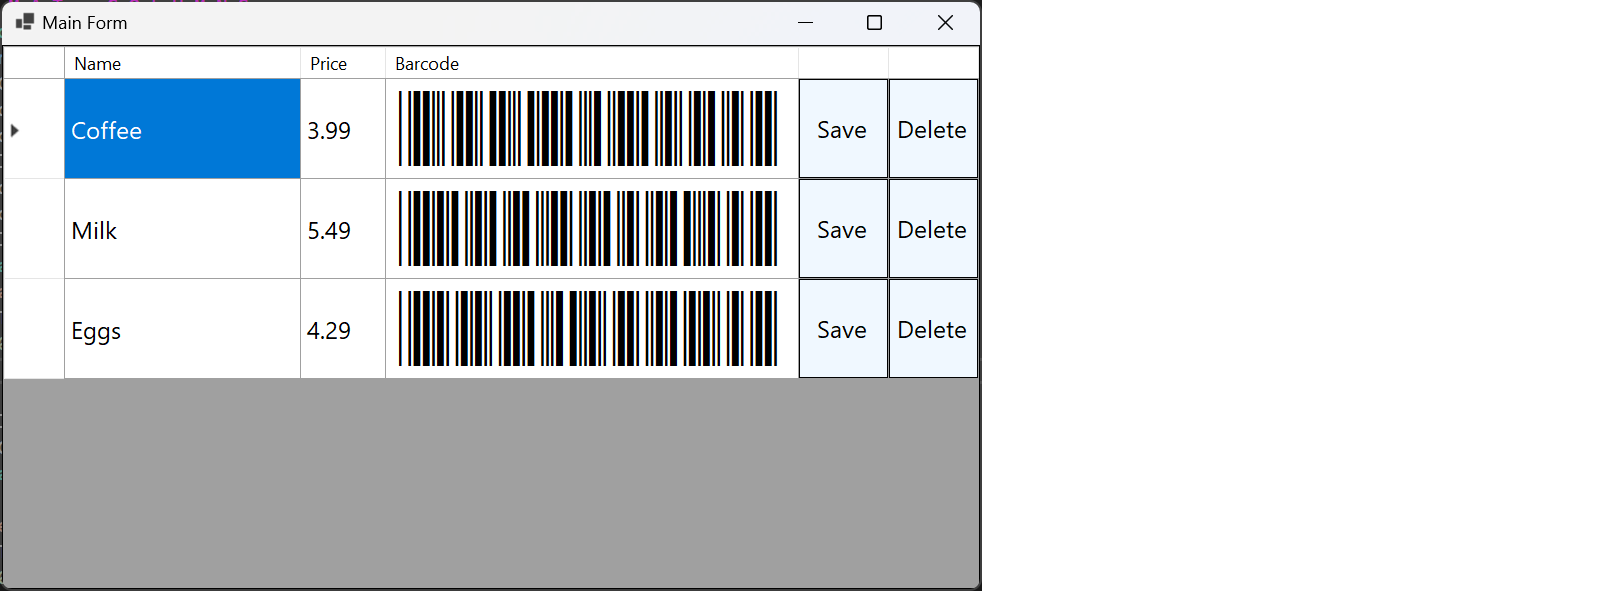
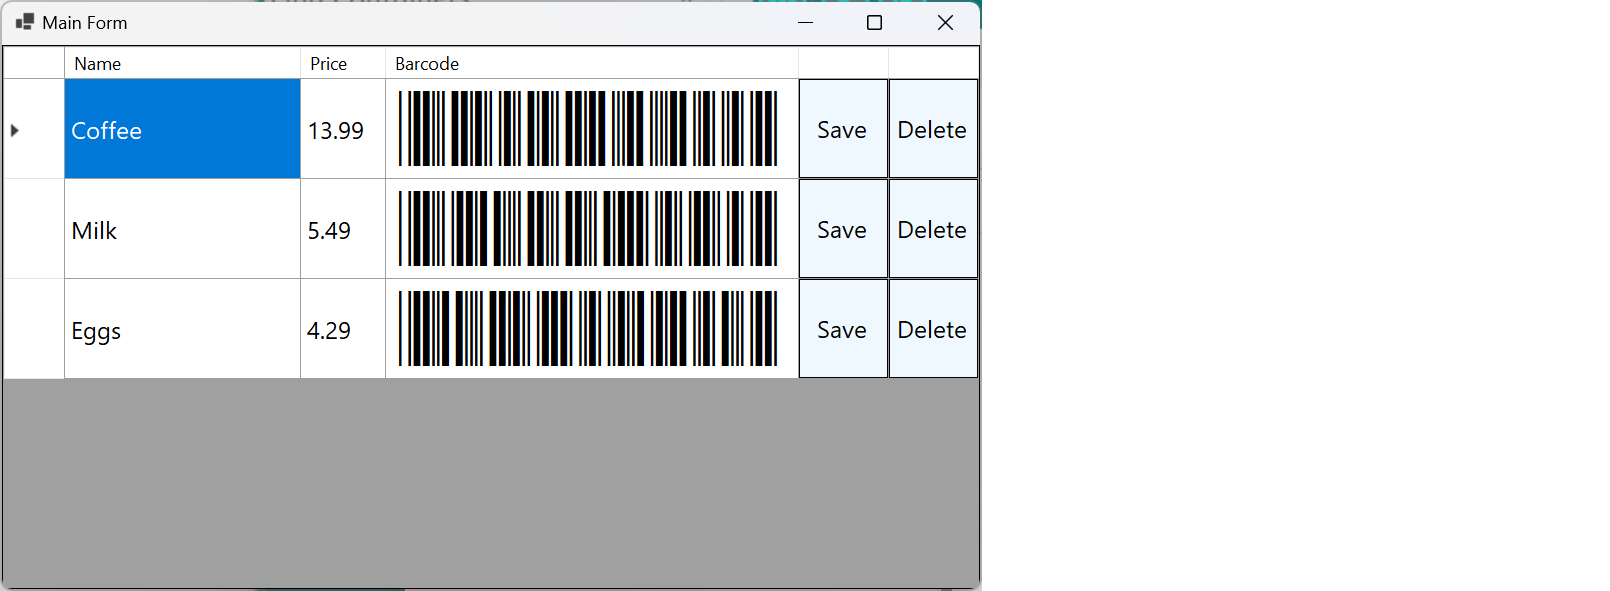
set a more contextually reasonable price for coffee

diff --git a/product-list-00/MainForm.cs b/product-list-00/MainForm.cs
@@ -54,7 +54,7 @@ namespace product_list_00
             #endregion F O R M A T    C O L U M N S
 
             // Add a few products
-            Products.Add(new Product { Name = "Coffee", Price = 3.99 });
+            Products.Add(new Product { Name = "Coffee", Price = 13.99 });
             Products.Add(new Product { Name = "Milk", Price = 5.49 });
             Products.Add(new Product { Name = "Eggs", Price = 4.29 });
         }

diff --git a/README.md b/README.md
@@ -3,12 +3,12 @@ Your [question](https://stackoverflow.com/q/74962863/5438626) is about **setting
 [![minimal sample][1]][1]
 
 ***
-The `BindingList<Product>` contains objects of a class you define to represent a row:
+The data source is a `BindingList<Product>` containing objects of a class you have defined to represent a row:
 
     // Minimal product class for example
     class Product
     {
-        // Read-only fields for this example.
+        // Read-only cells for this example.
         public string Name { get; internal set; }
         public double Price { get; internal set; }
         public string Barcode { get; internal set; } =
@@ -67,7 +67,7 @@ Then in the main form, the `Load` event can be used to set up the columns and fo
         #endregion F O R M A T    C O L U M N S
 
         // Add a few products
-        Products.Add(new Product { Name = "Coffee", Price = 3.99 });
+        Products.Add(new Product { Name = "Coffee", Price = 13.99 });
         Products.Add(new Product { Name = "Milk", Price = 5.49 });
         Products.Add(new Product { Name = "Eggs", Price = 4.29 });
     }
@@ -75,4 +75,4 @@ Then in the main form, the `Load` event can be used to set up the columns and fo
  
 
 
-  [1]: https://i.stack.imgur.com/rjKtK.png
+  [1]: https://i.stack.imgur.com/CqwFV.png
